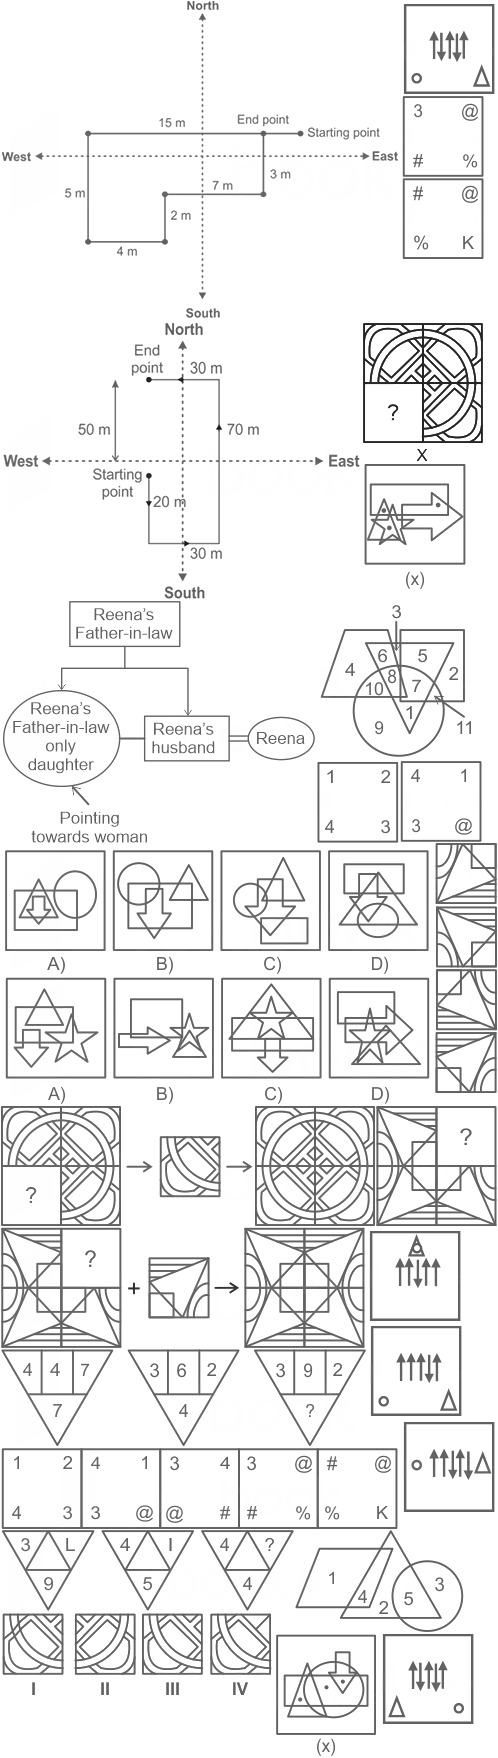
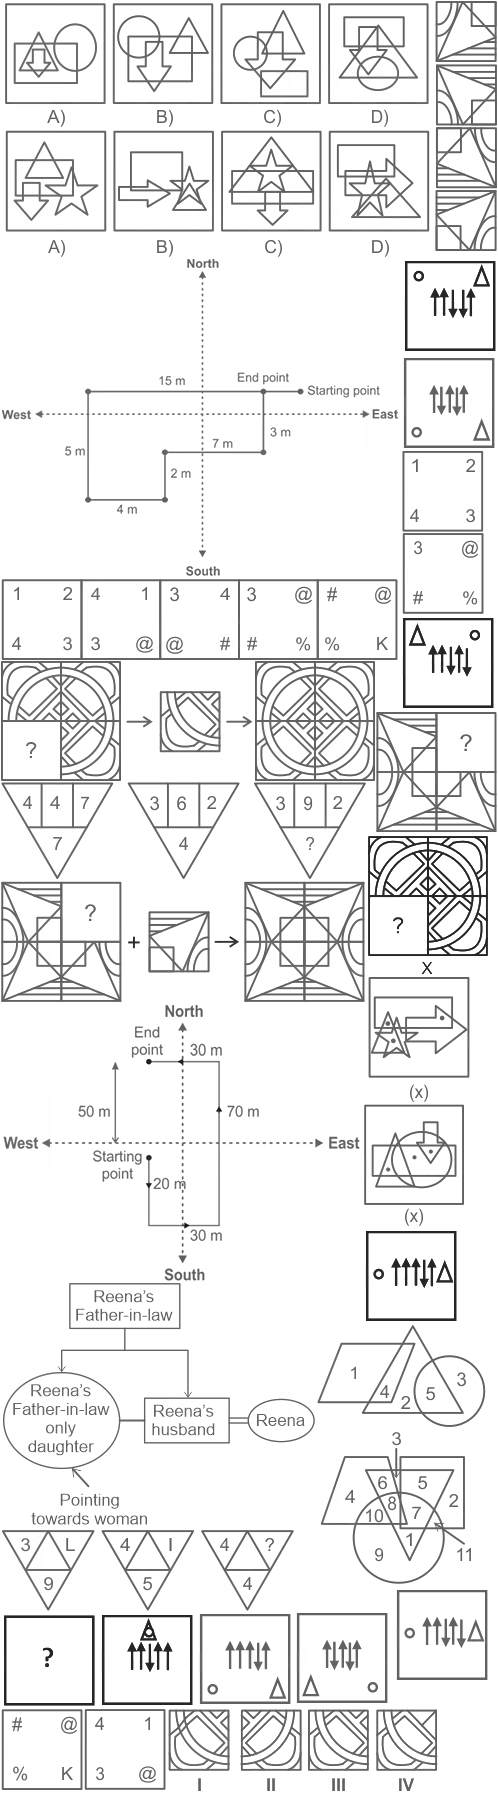
Fixed.

Changed region(s): [[0.0, 0.0, 1.0, 1.0], [0.0, 0.215, 0.0602, 0.2765]]

diff --git a/img/others/afcat/prev/afcat2022p2_26_aug.css b/img/others/afcat/prev/afcat2022p2_26_aug.css
@@ -8,94 +8,106 @@ Responsive: <div class="yourspritesname"></div>
 
 
 .afcat_2_26_aug_2022_s1_77 {max-width:169px; max-height:102px; }
-.afcat_2_26_aug_2022_s1_77::after {content: '\00a0';display: inline-block; width:169px; height:102px; background-position: 89.66565349544074% 92.3913043478261%;background-size: 294.67455621301775% 1723.5294117647059%;background-image: url(afcat2022p2_26_aug.png);padding: 0; }
+.afcat_2_26_aug_2022_s1_77::after {content: '\00a0';display: inline-block; width:169px; height:102px; background-position: 96.35258358662614% 78.35600236546422%;background-size: 294.67455621301775% 1757.8431372549019%;background-image: url(afcat2022p2_26_aug.png);padding: 0; }
 div.afcat_2_26_aug_2022_s1_77::after {max-width:169px; width:100%;height:0;padding: 0 0 60.35502958579882% 0;}
 .afcat_2_26_aug_2022_s1_78 {max-width:158px; max-height:159px; }
-.afcat_2_26_aug_2022_s1_78::after {content: '\00a0';display: inline-block; width:158px; height:159px; background-position: 93.23529411764706% 37.58599124452783%;background-size: 315.1898734177215% 1105.6603773584907%;background-image: url(afcat2022p2_26_aug.png);padding: 0; }
+.afcat_2_26_aug_2022_s1_78::after {content: '\00a0';display: inline-block; width:158px; height:159px; background-position: 93.23529411764706% 87.39290085679315%;background-size: 315.1898734177215% 1127.6729559748428%;background-image: url(afcat2022p2_26_aug.png);padding: 0; }
 div.afcat_2_26_aug_2022_s1_78::after {max-width:158px; width:100%;height:0;padding: 0 0 100.63291139240506% 0;}
 .afcat_2_26_aug_2022_s1_79 {max-width:293px; max-height:81px; }
-.afcat_2_26_aug_2022_s1_79::after {content: '\00a0';display: inline-block; width:293px; height:81px; background-position: 0.4878048780487805% 91.23434704830053%;background-size: 169.96587030716722% 2170.3703703703704%;background-image: url(afcat2022p2_26_aug.png);padding: 0; }
+.afcat_2_26_aug_2022_s1_79::after {content: '\00a0';display: inline-block; width:293px; height:81px; background-position: 0.4878048780487805% 89.36915887850468%;background-size: 169.96587030716722% 2213.58024691358%;background-image: url(afcat2022p2_26_aug.png);padding: 0; }
 div.afcat_2_26_aug_2022_s1_79::after {max-width:293px; width:100%;height:0;padding: 0 0 27.64505119453925% 0;}
 .afcat_2_26_aug_2022_s1_83 {max-width:105px; max-height:124px; }
-.afcat_2_26_aug_2022_s1_83::after {content: '\00a0';display: inline-block; width:105px; height:124px; background-position: 69.72010178117048% 99.93880048959608%;background-size: 474.2857142857143% 1417.741935483871%;background-image: url(afcat2022p2_26_aug.png);padding: 0; }
+.afcat_2_26_aug_2022_s1_83::after {content: '\00a0';display: inline-block; width:105px; height:124px; background-position: 92.1119592875318% 66.08747753145596%;background-size: 474.2857142857143% 1445.967741935484%;background-image: url(afcat2022p2_26_aug.png);padding: 0; }
 div.afcat_2_26_aug_2022_s1_83::after {max-width:105px; width:100%;height:0;padding: 0 0 118.0952380952381% 0;}
 .afcat_2_26_aug_2022_s1_83_a {max-width:433px; max-height:128px; }
-.afcat_2_26_aug_2022_s1_83_a::after {content: '\00a0';display: inline-block; width:433px; height:128px; background-position: 1.5384615384615385% 52.02453987730061%;background-size: 115.01154734411085% 1373.4375%;background-image: url(afcat2022p2_26_aug.png);padding: 0; }
+.afcat_2_26_aug_2022_s1_83_a::after {content: '\00a0';display: inline-block; width:433px; height:128px; background-position: 1.5384615384615385% 0.06006006006006006%;background-size: 115.01154734411085% 1400.78125%;background-image: url(afcat2022p2_26_aug.png);padding: 0; }
 div.afcat_2_26_aug_2022_s1_83_a::after {max-width:433px; width:100%;height:0;padding: 0 0 29.561200923787528% 0;}
 .afcat_2_26_aug_2022_s1_86_sol {max-width:400px; max-height:319px; }
-.afcat_2_26_aug_2022_s1_86_sol::after {content: '\00a0';display: inline-block; width:400px; height:319px; background-position: 1.0204081632653061% 0.06949270326615706%;background-size: 124.5% 551.0971786833856%;background-image: url(afcat2022p2_26_aug.png);padding: 0; }
+.afcat_2_26_aug_2022_s1_86_sol::after {content: '\00a0';display: inline-block; width:400px; height:319px; background-position: 1.0204081632653061% 17.57123473541384%;background-size: 124.5% 562.0689655172414%;background-image: url(afcat2022p2_26_aug.png);padding: 0; }
 div.afcat_2_26_aug_2022_s1_86_sol::after {max-width:400px; width:100%;height:0;padding: 0 0 79.75% 0;}
 .afcat_2_26_aug_2022_s1_87 {max-width:121px; max-height:121px; }
-.afcat_2_26_aug_2022_s1_87::after {content: '\00a0';display: inline-block; width:121px; height:121px; background-position: 99.73474801061008% 67.56261453879047%;background-size: 411.5702479338843% 1452.892561983471%;background-image: url(afcat2022p2_26_aug.png);padding: 0; }
+.afcat_2_26_aug_2022_s1_87::after {content: '\00a0';display: inline-block; width:121px; height:121px; background-position: 99.73474801061008% 42.58373205741627%;background-size: 411.5702479338843% 1481.8181818181818%;background-image: url(afcat2022p2_26_aug.png);padding: 0; }
 div.afcat_2_26_aug_2022_s1_87::after {max-width:121px; width:100%;height:0;padding: 0 0 100% 0;}
 .afcat_2_26_aug_2022_s1_87_a {max-width:62px; max-height:62px; }
-.afcat_2_26_aug_2022_s1_87_a::after {content: '\00a0';display: inline-block; width:62px; height:62px; background-position: 99.77064220183486% 49.70518867924528%;background-size: 803.2258064516129% 2835.483870967742%;background-image: url(afcat2022p2_26_aug.png);padding: 0; }
+.afcat_2_26_aug_2022_s1_87_a::after {content: '\00a0';display: inline-block; width:62px; height:62px; background-position: 99.77064220183486% 0.057770075101097634%;background-size: 803.2258064516129% 2891.935483870968%;background-image: url(afcat2022p2_26_aug.png);padding: 0; }
 div.afcat_2_26_aug_2022_s1_87_a::after {max-width:62px; width:100%;height:0;padding: 0 0 100% 0;}
 .afcat_2_26_aug_2022_s1_87_b {max-width:62px; max-height:62px; }
-.afcat_2_26_aug_2022_s1_87_b::after {content: '\00a0';display: inline-block; width:62px; height:62px; background-position: 99.77064220183486% 53.41981132075472%;background-size: 803.2258064516129% 2835.483870967742%;background-image: url(afcat2022p2_26_aug.png);padding: 0; }
+.afcat_2_26_aug_2022_s1_87_b::after {content: '\00a0';display: inline-block; width:62px; height:62px; background-position: 99.77064220183486% 3.6972848064702486%;background-size: 803.2258064516129% 2891.935483870968%;background-image: url(afcat2022p2_26_aug.png);padding: 0; }
 div.afcat_2_26_aug_2022_s1_87_b::after {max-width:62px; width:100%;height:0;padding: 0 0 100% 0;}
 .afcat_2_26_aug_2022_s1_87_c {max-width:62px; max-height:62px; }
-.afcat_2_26_aug_2022_s1_87_c::after {content: '\00a0';display: inline-block; width:62px; height:62px; background-position: 99.77064220183486% 57.134433962264154%;background-size: 803.2258064516129% 2835.483870967742%;background-image: url(afcat2022p2_26_aug.png);padding: 0; }
+.afcat_2_26_aug_2022_s1_87_c::after {content: '\00a0';display: inline-block; width:62px; height:62px; background-position: 99.77064220183486% 7.336799537839399%;background-size: 803.2258064516129% 2891.935483870968%;background-image: url(afcat2022p2_26_aug.png);padding: 0; }
 div.afcat_2_26_aug_2022_s1_87_c::after {max-width:62px; width:100%;height:0;padding: 0 0 100% 0;}
 .afcat_2_26_aug_2022_s1_87_d {max-width:62px; max-height:62px; }
-.afcat_2_26_aug_2022_s1_87_d::after {content: '\00a0';display: inline-block; width:62px; height:62px; background-position: 99.77064220183486% 60.84905660377358%;background-size: 803.2258064516129% 2835.483870967742%;background-image: url(afcat2022p2_26_aug.png);padding: 0; }
+.afcat_2_26_aug_2022_s1_87_d::after {content: '\00a0';display: inline-block; width:62px; height:62px; background-position: 99.77064220183486% 10.97631426920855%;background-size: 803.2258064516129% 2891.935483870968%;background-image: url(afcat2022p2_26_aug.png);padding: 0; }
 div.afcat_2_26_aug_2022_s1_87_d::after {max-width:62px; width:100%;height:0;padding: 0 0 100% 0;}
 .afcat_2_26_aug_2022_s1_87_sol {max-width:364px; max-height:121px; }
-.afcat_2_26_aug_2022_s1_87_sol::after {content: '\00a0';display: inline-block; width:364px; height:121px; background-position: 0.746268656716418% 74.95418448381186%;background-size: 136.8131868131868% 1452.892561983471%;background-image: url(afcat2022p2_26_aug.png);padding: 0; }
+.afcat_2_26_aug_2022_s1_87_sol::after {content: '\00a0';display: inline-block; width:364px; height:121px; background-position: 0.746268656716418% 52.69138755980861%;background-size: 136.8131868131868% 1481.8181818181818%;background-image: url(afcat2022p2_26_aug.png);padding: 0; }
 div.afcat_2_26_aug_2022_s1_87_sol::after {max-width:364px; width:100%;height:0;padding: 0 0 33.24175824175824% 0;}
 .afcat_2_26_aug_2022_s1_88 {max-width:272px; max-height:84px; }
-.afcat_2_26_aug_2022_s1_88::after {content: '\00a0';display: inline-block; width:272px; height:84px; background-position: 0.4424778761061947% 96.29629629629629%;background-size: 183.08823529411765% 2092.8571428571427%;background-image: url(afcat2022p2_26_aug.png);padding: 0; }
+.afcat_2_26_aug_2022_s1_88::after {content: '\00a0';display: inline-block; width:272px; height:84px; background-position: 73.89380530973452% 99.94148624926858%;background-size: 183.08823529411765% 2134.5238095238096%;background-image: url(afcat2022p2_26_aug.png);padding: 0; }
 div.afcat_2_26_aug_2022_s1_88::after {max-width:272px; width:100%;height:0;padding: 0 0 30.88235294117647% 0;}
 .afcat_2_26_aug_2022_s1_88_1 {max-width:122px; max-height:142px; }
-.afcat_2_26_aug_2022_s1_88_1::after {content: '\00a0';display: inline-block; width:122px; height:142px; background-position: 96.27659574468085% 19.863861386138613%;background-size: 408.1967213114754% 1238.0281690140846%;background-image: url(afcat2022p2_26_aug.png);padding: 0; }
+.afcat_2_26_aug_2022_s1_88_1::after {content: '\00a0';display: inline-block; width:122px; height:142px; background-position: 97.6063829787234% 50.514839491217444%;background-size: 408.1967213114754% 1262.6760563380283%;background-image: url(afcat2022p2_26_aug.png);padding: 0; }
 div.afcat_2_26_aug_2022_s1_88_1::after {max-width:122px; width:100%;height:0;padding: 0 0 116.39344262295081% 0;}
 .afcat_2_26_aug_2022_s1_88_sol {max-width:374px; max-height:120px; }
-.afcat_2_26_aug_2022_s1_88_sol::after {content: '\00a0';display: inline-block; width:374px; height:120px; background-position: 0.8064516129032258% 67.52136752136752%;background-size: 133.15508021390374% 1465%;background-image: url(afcat2022p2_26_aug.png);padding: 0; }
+.afcat_2_26_aug_2022_s1_88_sol::after {content: '\00a0';display: inline-block; width:374px; height:120px; background-position: 0.8064516129032258% 39.50986252241482%;background-size: 133.15508021390374% 1494.1666666666667%;background-image: url(afcat2022p2_26_aug.png);padding: 0; }
 div.afcat_2_26_aug_2022_s1_88_sol::after {max-width:374px; width:100%;height:0;padding: 0 0 32.0855614973262% 0;}
 .afcat_2_26_aug_2022_s1_89_sol {max-width:360px; max-height:279px; }
-.afcat_2_26_aug_2022_s1_89_sol::after {content: '\00a0';display: inline-block; width:360px; height:279px; background-position: 0.7246376811594203% 21.703853955375255%;background-size: 138.33333333333334% 630.1075268817204%;background-image: url(afcat2022p2_26_aug.png);padding: 0; }
+.afcat_2_26_aug_2022_s1_89_sol::after {content: '\00a0';display: inline-block; width:360px; height:279px; background-position: 0.7246376811594203% 66.24834874504623%;background-size: 138.33333333333334% 642.652329749104%;background-image: url(afcat2022p2_26_aug.png);padding: 0; }
 div.afcat_2_26_aug_2022_s1_89_sol::after {max-width:360px; width:100%;height:0;padding: 0 0 77.5% 0;}
 .afcat_2_26_aug_2022_s1_91 {max-width:397px; max-height:81px; }
-.afcat_2_26_aug_2022_s1_91::after {content: '\00a0';display: inline-block; width:397px; height:81px; background-position: 0.9900990099009901% 86.34466308884913%;background-size: 125.44080604534005% 2170.3703703703704%;background-image: url(afcat2022p2_26_aug.png);padding: 0; }
+.afcat_2_26_aug_2022_s1_91::after {content: '\00a0';display: inline-block; width:397px; height:81px; background-position: 0.9900990099009901% 33.820093457943926%;background-size: 125.44080604534005% 2213.58024691358%;background-image: url(afcat2022p2_26_aug.png);padding: 0; }
 div.afcat_2_26_aug_2022_s1_91::after {max-width:397px; width:100%;height:0;padding: 0 0 20.403022670025187% 0;}
 .afcat_2_26_aug_2022_s1_91_a {max-width:82px; max-height:82px; }
-.afcat_2_26_aug_2022_s1_91_a::after {content: '\00a0';display: inline-block; width:82px; height:82px; background-position: 76.20192307692308% 45.40572792362769%;background-size: 607.3170731707318% 2143.9024390243903%;background-image: url(afcat2022p2_26_aug.png);padding: 0; }
+.afcat_2_26_aug_2022_s1_91_a::after {content: '\00a0';display: inline-block; width:82px; height:82px; background-position: 96.63461538461539% 26.300409117475162%;background-size: 607.3170731707318% 2186.5853658536585%;background-image: url(afcat2022p2_26_aug.png);padding: 0; }
 div.afcat_2_26_aug_2022_s1_91_a::after {max-width:82px; width:100%;height:0;padding: 0 0 100% 0;}
 .afcat_2_26_aug_2022_s1_91_b {max-width:82px; max-height:81px; }
-.afcat_2_26_aug_2022_s1_91_b::after {content: '\00a0';display: inline-block; width:82px; height:81px; background-position: 96.63461538461539% 5.724508050089446%;background-size: 607.3170731707318% 2170.3703703703704%;background-image: url(afcat2022p2_26_aug.png);padding: 0; }
+.afcat_2_26_aug_2022_s1_91_b::after {content: '\00a0';display: inline-block; width:82px; height:81px; background-position: 96.63461538461539% 31.13317757009346%;background-size: 607.3170731707318% 2213.58024691358%;background-image: url(afcat2022p2_26_aug.png);padding: 0; }
 div.afcat_2_26_aug_2022_s1_91_b::after {max-width:82px; width:100%;height:0;padding: 0 0 98.78048780487805% 0;}
 .afcat_2_26_aug_2022_s1_91_c {max-width:82px; max-height:81px; }
-.afcat_2_26_aug_2022_s1_91_c::after {content: '\00a0';display: inline-block; width:82px; height:81px; background-position: 96.63461538461539% 10.614192009540847%;background-size: 607.3170731707318% 2170.3703703703704%;background-image: url(afcat2022p2_26_aug.png);padding: 0; }
+.afcat_2_26_aug_2022_s1_91_c::after {content: '\00a0';display: inline-block; width:82px; height:81px; background-position: 0.2403846153846154% 99.82476635514018%;background-size: 607.3170731707318% 2213.58024691358%;background-image: url(afcat2022p2_26_aug.png);padding: 0; }
 div.afcat_2_26_aug_2022_s1_91_c::after {max-width:82px; width:100%;height:0;padding: 0 0 98.78048780487805% 0;}
 .afcat_2_26_aug_2022_s1_91_d {max-width:82px; max-height:81px; }
-.afcat_2_26_aug_2022_s1_91_d::after {content: '\00a0';display: inline-block; width:82px; height:81px; background-position: 96.15384615384616% 45.37865235539654%;background-size: 607.3170731707318% 2170.3703703703704%;background-image: url(afcat2022p2_26_aug.png);padding: 0; }
+.afcat_2_26_aug_2022_s1_91_d::after {content: '\00a0';display: inline-block; width:82px; height:81px; background-position: 20.192307692307693% 99.82476635514018%;background-size: 607.3170731707318% 2213.58024691358%;background-image: url(afcat2022p2_26_aug.png);padding: 0; }
 div.afcat_2_26_aug_2022_s1_91_d::after {max-width:82px; width:100%;height:0;padding: 0 0 98.78048780487805% 0;}
 .afcat_2_26_aug_2022_s1_93_sol {max-width:315px; max-height:246px; }
-.afcat_2_26_aug_2022_s1_93_sol::after {content: '\00a0';display: inline-block; width:315px; height:246px; background-position: 0.546448087431694% 39.74867724867725%;background-size: 158.0952380952381% 714.6341463414634%;background-image: url(afcat2022p2_26_aug.png);padding: 0; }
+.afcat_2_26_aug_2022_s1_93_sol::after {content: '\00a0';display: inline-block; width:315px; height:246px; background-position: 0.546448087431694% 82.93471234647706%;background-size: 158.0952380952381% 728.8617886178862%;background-image: url(afcat2022p2_26_aug.png);padding: 0; }
 div.afcat_2_26_aug_2022_s1_93_sol::after {max-width:315px; width:100%;height:0;padding: 0 0 78.0952380952381% 0;}
 .afcat_2_26_aug_2022_s1_97 {max-width:365px; max-height:98px; }
-.afcat_2_26_aug_2022_s1_97::after {content: '\00a0';display: inline-block; width:365px; height:98px; background-position: 0.7518796992481203% 81.26506024096386%;background-size: 136.43835616438355% 1793.8775510204082%;background-image: url(afcat2022p2_26_aug.png);padding: 0; }
+.afcat_2_26_aug_2022_s1_97::after {content: '\00a0';display: inline-block; width:365px; height:98px; background-position: 0.7518796992481203% 46.13569321533923%;background-size: 136.43835616438355% 1829.591836734694%;background-image: url(afcat2022p2_26_aug.png);padding: 0; }
 div.afcat_2_26_aug_2022_s1_97::after {max-width:365px; width:100%;height:0;padding: 0 0 26.84931506849315% 0;}
 .afcat_2_26_aug_2022_s1_98 {max-width:106px; max-height:125px; }
-.afcat_2_26_aug_2022_s1_98::after {content: '\00a0';display: inline-block; width:106px; height:125px; background-position: 92.34693877551021% 28.413962033067975%;background-size: 469.811320754717% 1406.4%;background-image: url(afcat2022p2_26_aug.png);padding: 0; }
+.afcat_2_26_aug_2022_s1_98::after {content: '\00a0';display: inline-block; width:106px; height:125px; background-position: 93.36734693877551% 58.57314148681055%;background-size: 469.811320754717% 1434.4%;background-image: url(afcat2022p2_26_aug.png);padding: 0; }
 div.afcat_2_26_aug_2022_s1_98::after {max-width:106px; width:100%;height:0;padding: 0 0 117.9245283018868% 0;}
 .afcat_2_26_aug_2022_s1_98_a {max-width:433px; max-height:128px; }
-.afcat_2_26_aug_2022_s1_98_a::after {content: '\00a0';display: inline-block; width:433px; height:128px; background-position: 1.5384615384615385% 59.938650306748464%;background-size: 115.01154734411085% 1373.4375%;background-image: url(afcat2022p2_26_aug.png);padding: 0; }
+.afcat_2_26_aug_2022_s1_98_a::after {content: '\00a0';display: inline-block; width:433px; height:128px; background-position: 1.5384615384615385% 7.807807807807808%;background-size: 115.01154734411085% 1400.78125%;background-image: url(afcat2022p2_26_aug.png);padding: 0; }
 div.afcat_2_26_aug_2022_s1_98_a::after {max-width:433px; width:100%;height:0;padding: 0 0 29.561200923787528% 0;}
-.afcat_2_26_aug_2022_s1_99 {max-width:97px; max-height:95px; }
-.afcat_2_26_aug_2022_s1_99::after {content: '\00a0';display: inline-block; width:97px; height:95px; background-position: 91.2718204488778% 73.84245339747444%;background-size: 513.4020618556701% 1850.5263157894738%;background-image: url(afcat2022p2_26_aug.png);padding: 0; }
-div.afcat_2_26_aug_2022_s1_99::after {max-width:97px; width:100%;height:0;padding: 0 0 97.9381443298969% 0;}
+.afcat_2_26_aug_2022_s1_99 {max-width:97px; max-height:96px; }
+.afcat_2_26_aug_2022_s1_99::after {content: '\00a0';display: inline-block; width:97px; height:96px; background-position: 99.50124688279301% 36.24042427813789%;background-size: 513.4020618556701% 1867.7083333333333%;background-image: url(afcat2022p2_26_aug.png);padding: 0; }
+div.afcat_2_26_aug_2022_s1_99::after {max-width:97px; width:100%;height:0;padding: 0 0 98.96907216494846% 0;}
+.afcat_2_26_aug_2022_s1_99_1 {max-width:97px; max-height:95px; }
+.afcat_2_26_aug_2022_s1_99_1::after {content: '\00a0';display: inline-block; width:97px; height:95px; background-position: 24.438902743142144% 94.93521790341579%;background-size: 513.4020618556701% 1887.3684210526317%;background-image: url(afcat2022p2_26_aug.png);padding: 0; }
+div.afcat_2_26_aug_2022_s1_99_1::after {max-width:97px; width:100%;height:0;padding: 0 0 97.9381443298969% 0;}
+.afcat_2_26_aug_2022_s1_99_2 {max-width:95px; max-height:95px; }
+.afcat_2_26_aug_2022_s1_99_2::after {content: '\00a0';display: inline-block; width:95px; height:95px; background-position: 99.75186104218362% 15.25323910482921%;background-size: 524.2105263157895% 1887.3684210526317%;background-image: url(afcat2022p2_26_aug.png);padding: 0; }
+div.afcat_2_26_aug_2022_s1_99_2::after {max-width:95px; width:100%;height:0;padding: 0 0 100% 0;}
+.afcat_2_26_aug_2022_s1_99_3 {max-width:97px; max-height:96px; }
+.afcat_2_26_aug_2022_s1_99_3::after {content: '\00a0';display: inline-block; width:97px; height:96px; background-position: 90.27431421446384% 72.3629935179729%;background-size: 513.4020618556701% 1867.7083333333333%;background-image: url(afcat2022p2_26_aug.png);padding: 0; }
+div.afcat_2_26_aug_2022_s1_99_3::after {max-width:97px; width:100%;height:0;padding: 0 0 98.96907216494846% 0;}
+.afcat_2_26_aug_2022_s1_99_4 {max-width:96px; max-height:96px; }
+.afcat_2_26_aug_2022_s1_99_4::after {content: '\00a0';display: inline-block; width:96px; height:96px; background-position: 0.24875621890547264% 94.99116087212728%;background-size: 518.75% 1867.7083333333333%;background-image: url(afcat2022p2_26_aug.png);padding: 0; }
+div.afcat_2_26_aug_2022_s1_99_4::after {max-width:96px; width:100%;height:0;padding: 0 0 100% 0;}
 .afcat_2_26_aug_2022_s1_99_a {max-width:97px; max-height:94px; }
-.afcat_2_26_aug_2022_s1_99_a::after {content: '\00a0';display: inline-block; width:97px; height:94px; background-position: 94.76309226932668% 98.13701923076923%;background-size: 513.4020618556701% 1870.212765957447%;background-image: url(afcat2022p2_26_aug.png);padding: 0; }
+.afcat_2_26_aug_2022_s1_99_a::after {content: '\00a0';display: inline-block; width:97px; height:94px; background-position: 73.31670822942644% 94.87934078869924%;background-size: 513.4020618556701% 1907.4468085106382%;background-image: url(afcat2022p2_26_aug.png);padding: 0; }
 div.afcat_2_26_aug_2022_s1_99_a::after {max-width:97px; width:100%;height:0;padding: 0 0 96.90721649484536% 0;}
 .afcat_2_26_aug_2022_s1_99_b {max-width:95px; max-height:94px; }
-.afcat_2_26_aug_2022_s1_99_b::after {content: '\00a0';display: inline-block; width:95px; height:94px; background-position: 99.75186104218362% 0.06009615384615385%;background-size: 524.2105263157895% 1870.212765957447%;background-image: url(afcat2022p2_26_aug.png);padding: 0; }
+.afcat_2_26_aug_2022_s1_99_b::after {content: '\00a0';display: inline-block; width:95px; height:94px; background-position: 99.75186104218362% 20.894643908181283%;background-size: 524.2105263157895% 1907.4468085106382%;background-image: url(afcat2022p2_26_aug.png);padding: 0; }
 div.afcat_2_26_aug_2022_s1_99_b::after {max-width:95px; width:100%;height:0;padding: 0 0 98.94736842105263% 0;}
 .afcat_2_26_aug_2022_s1_99_c {max-width:97px; max-height:95px; }
-.afcat_2_26_aug_2022_s1_99_c::after {content: '\00a0';display: inline-block; width:97px; height:95px; background-position: 91.52119700748129% 79.61515333734215%;background-size: 513.4020618556701% 1850.5263157894738%;background-image: url(afcat2022p2_26_aug.png);padding: 0; }
+.afcat_2_26_aug_2022_s1_99_c::after {content: '\00a0';display: inline-block; width:97px; height:95px; background-position: 48.87780548628429% 94.93521790341579%;background-size: 513.4020618556701% 1887.3684210526317%;background-image: url(afcat2022p2_26_aug.png);padding: 0; }
 div.afcat_2_26_aug_2022_s1_99_c::after {max-width:97px; width:100%;height:0;padding: 0 0 97.9381443298969% 0;}
 .afcat_2_26_aug_2022_s1_99_d {max-width:97px; max-height:94px; }
-.afcat_2_26_aug_2022_s1_99_d::after {content: '\00a0';display: inline-block; width:97px; height:94px; background-position: 99.50124688279301% 85.33653846153847%;background-size: 513.4020618556701% 1870.212765957447%;background-image: url(afcat2022p2_26_aug.png);padding: 0; }
+.afcat_2_26_aug_2022_s1_99_d::after {content: '\00a0';display: inline-block; width:97px; height:94px; background-position: 97.75561097256858% 93.46674514420248%;background-size: 513.4020618556701% 1907.4468085106382%;background-image: url(afcat2022p2_26_aug.png);padding: 0; }
 div.afcat_2_26_aug_2022_s1_99_d::after {max-width:97px; width:100%;height:0;padding: 0 0 96.90721649484536% 0;}
 
-/* $TexturePacker:SmartUpdate:06cd1d93412a5eabaa81588f4cebe34c:c9c0937a750e8adf987335d5b4734467:3f8d001d5de07adf0677202ef25fa460$ */
+/* $TexturePacker:SmartUpdate:3f37a24213d483c5756497205de40e81:df8ec46e47b891ed28b8439f153a0640:3f8d001d5de07adf0677202ef25fa460$ */
